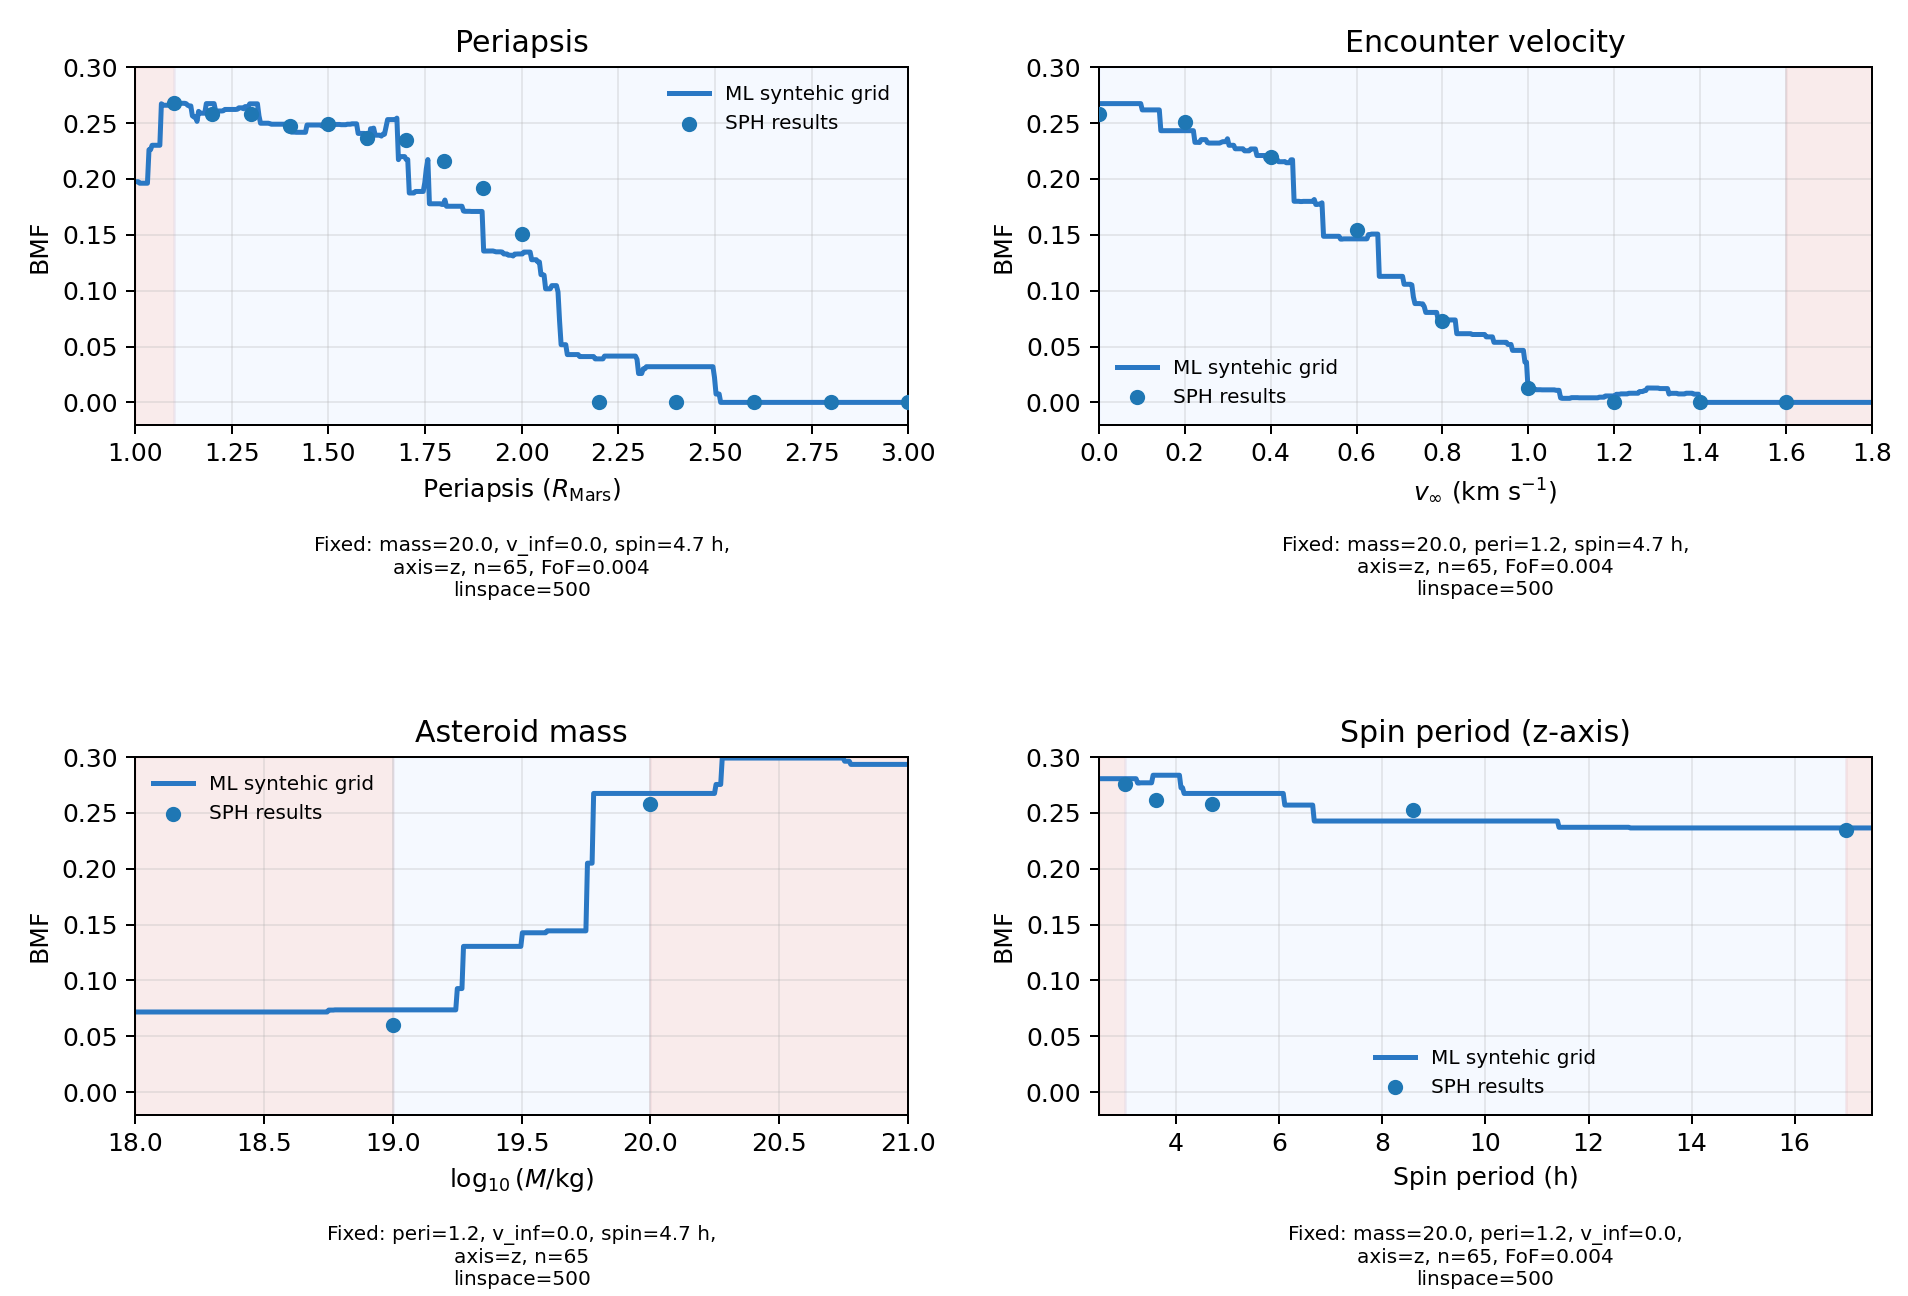
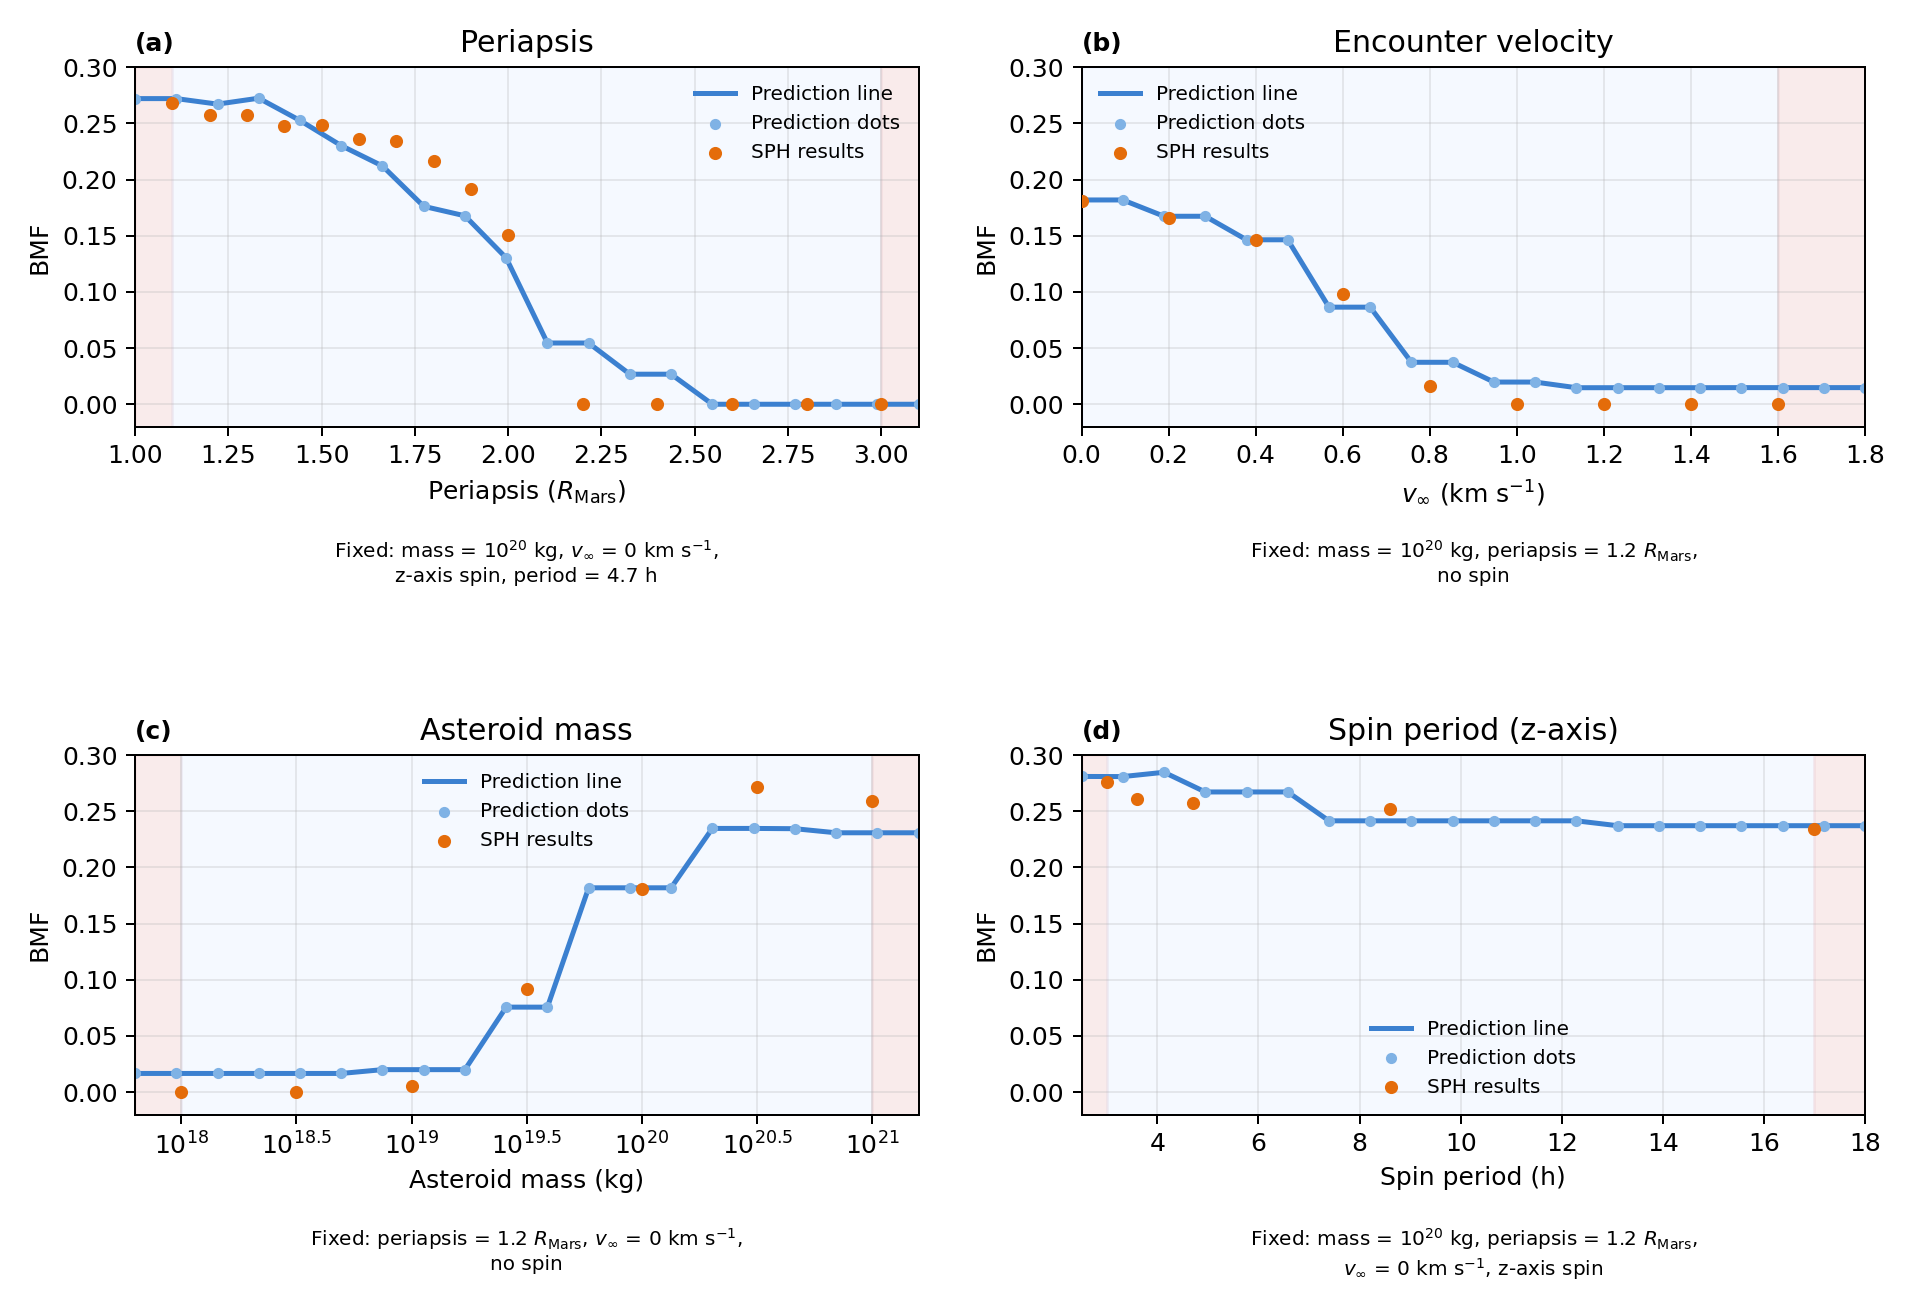
fix: remake variation for figure according to supervisor's revision

diff --git a/eda/scripts/figure3_nospin_variation_build.py b/eda/scripts/figure3_nospin_variation_build.py
@@ -26,7 +26,7 @@ from ml.model_training_scripts.helper_functions_ml import (
 
 
 DATASET_PATH = Path("extraction-outputs/tables/bound_outcomes.csv")
-OUTPUT_PATH = Path("report-table-figure/figures/figure3_used_in_report.png")
+OUTPUT_PATH = Path("report-table-figure/figures/figure3_nospin_variation.png")
 GRID_POINTS = 20
 INTERPOLATION_COLOR = "#dbe8ff"
 EXTRAPOLATION_COLOR = "#f3d3d3"
@@ -43,7 +43,6 @@ FEATURE_COLUMNS = [
     "resolution_value",
     "fof_linking_length",
 ]
-SIMULATION_SETTING_COLUMNS = ["resolution_value", "fof_linking_length"]
 GB_PARAMS = {
     "n_estimators": 500,
     "learning_rate": 0.08,
@@ -97,11 +96,6 @@ def linspace_grid(
     elif parameter == "v_inf_kms":
         grid["velocity_value"] = np.round(grid["v_inf_kms"].astype(float) * 10.0).astype(int)
         grid["velocity_code"] = grid["velocity_value"].map(lambda value: f"v{value:02d}")
-    elif parameter == "spin_period_hr":
-        spin_values = np.round(grid["spin_period_hr"].astype(float) * 10.0).astype(int)
-        axis = str(base_row["spin_axis"])
-        grid["spin_value"] = spin_values
-        grid["spin_code"] = spin_values.map(lambda value: f"s{value:03d}{axis}")
 
     for column in NUMERIC_GRID_COLUMNS:
         if column in grid.columns:
@@ -141,22 +135,9 @@ def collapse_observed_slice(slice_df: pd.DataFrame, parameter: str) -> pd.DataFr
 
 def make_slice_specs(frame: pd.DataFrame) -> list[dict[str, object]]:
     no_spin = (frame["spin_axis"] == "none") & (frame["spin_period_hr"].isna())
-    peri_mask = (
-        (frame["mass_log10_kg"] == 20.0)
-        & (frame["v_inf_kms"] == 0.0)
-        & (frame["spin_axis"] == "z")
-        & (frame["spin_period_hr"] == 4.7)
-    )
-    vel_mask = (
-        (frame["mass_log10_kg"] == 20.0)
-        & (frame["periapsis_Rm"] == 1.2)
-        & no_spin
-    )
-    mass_mask = (
-        (frame["periapsis_Rm"] == 1.2)
-        & (frame["v_inf_kms"] == 0.0)
-        & no_spin
-    )
+    peri_mask = (frame["mass_log10_kg"] == 20.0) & (frame["v_inf_kms"] == 0.0) & no_spin
+    vel_mask = (frame["mass_log10_kg"] == 20.0) & (frame["periapsis_Rm"] == 1.2) & no_spin
+    mass_mask = (frame["periapsis_Rm"] == 1.2) & (frame["v_inf_kms"] == 0.0) & no_spin
     spin_mask = (
         (frame["mass_log10_kg"] == 20.0)
         & (frame["periapsis_Rm"] == 1.2)
@@ -169,8 +150,8 @@ def make_slice_specs(frame: pd.DataFrame) -> list[dict[str, object]]:
             "parameter": "periapsis_Rm",
             "title": "Periapsis",
             "x_label": r"Periapsis ($R_{\mathrm{Mars}}$)",
-            "x_range": (1.0, 3.1),
-            "fixed_text": "Fixed: mass = $10^{20}$ kg, $v_\\infty$ = 0 km s$^{-1}$,\nz-axis spin, period = 4.7 h",
+            "x_range": (1.0, 3.0),
+            "fixed_text": "Fixed: mass = $10^{20}$ kg, $v_\\infty$ = 0 km s$^{-1}$,\nno spin",
             "mask": peri_mask,
             "base_selector": peri_mask & (frame["periapsis_Rm"] == 1.2),
         },
@@ -179,7 +160,6 @@ def make_slice_specs(frame: pd.DataFrame) -> list[dict[str, object]]:
             "title": "Encounter velocity",
             "x_label": r"$v_\infty$ (km s$^{-1}$)",
             "x_range": (0.0, 1.8),
-            "physical_min": 0.0,
             "fixed_text": "Fixed: mass = $10^{20}$ kg, periapsis = 1.2 $R_{\\mathrm{Mars}}$,\nno spin",
             "mask": vel_mask,
             "base_selector": vel_mask & (frame["v_inf_kms"] == 0.0),
@@ -197,7 +177,7 @@ def make_slice_specs(frame: pd.DataFrame) -> list[dict[str, object]]:
             "parameter": "spin_period_hr",
             "title": "Spin period (z-axis)",
             "x_label": "Spin period (h)",
-            "x_range": (2.5, 18.0),
+            "x_range": (2.5, 17.5),
             "fixed_text": "Fixed: mass = $10^{20}$ kg, periapsis = 1.2 $R_{\\mathrm{Mars}}$,\n$v_\\infty$ = 0 km s$^{-1}$, z-axis spin",
             "mask": spin_mask,
             "base_selector": spin_mask & (frame["spin_period_hr"] == 4.7),
@@ -218,11 +198,8 @@ def render_panel(
     grid = build_prediction_grid(base_rows, spec["parameter"], spec["x_range"][0], spec["x_range"][1])
     grid["predicted_bmf"] = np.clip(model.predict(grid[feature_columns]), 0.0, 1.0)
     collapsed = collapse_observed_slice(slice_df, spec["parameter"])
-    synthetic_curve = (
-        grid.groupby("grid_x", as_index=False)["predicted_bmf"]
-        .mean()
-        .sort_values("grid_x")
-    )
+    synthetic_curve = grid.groupby("grid_x", as_index=False)["predicted_bmf"].mean().sort_values("grid_x")
+
     observed = np.sort(collapsed[spec["parameter"]].astype(float).unique())
     observed_min = float(observed.min())
     observed_max = float(observed.max())
@@ -260,8 +237,6 @@ def render_panel(
     ax.set_xlabel(spec["x_label"])
     ax.set_ylabel("BMF")
     ax.set_xlim(*spec["x_range"])
-    if spec["parameter"] == "v_inf_kms":
-        ax.set_xlim(left=max(0.0, spec["x_range"][0]))
     if spec["parameter"] == "mass_log10_kg":
         ticks = np.arange(18.0, 21.1, 0.5)
         ax.set_xticks(ticks)
@@ -272,7 +247,7 @@ def render_panel(
     ax.text(0.0, 1.03, panel_label, transform=ax.transAxes, ha="left", va="bottom", fontsize=10, fontweight="bold")
     ax.text(
         0.5,
-        -0.31,
+        -0.28,
         spec["fixed_text"],
         transform=ax.transAxes,
         ha="center",
@@ -283,13 +258,14 @@ def render_panel(
 
 def main() -> None:
     OUTPUT_PATH.parent.mkdir(parents=True, exist_ok=True)
-    raw = load_canonical_dataset(DATASET_PATH)
-    frame = raw.loc[raw[PRIMARY_TARGET].notna()].copy()
+    frame = load_canonical_dataset(DATASET_PATH)
+    frame = frame.loc[frame[PRIMARY_TARGET].notna()].copy()
     feature_columns, model = train_model(frame)
     specs = make_slice_specs(frame)
 
     fig, axes = plt.subplots(2, 2, figsize=(10.6, 7.2))
-    for ax, spec, panel_label in zip(axes.flat, specs, PANEL_LABELS):
+    flat_axes = axes.flat
+    for ax, spec, panel_label in zip(flat_axes, specs, PANEL_LABELS):
         render_panel(ax, frame, feature_columns, model, spec, panel_label)
 
     fig.tight_layout(h_pad=3.0, w_pad=2.2)
@@ -301,4 +277,3 @@ def main() -> None:
 
 if __name__ == "__main__":
     main()
-PANEL_LABELS = ["(a)", "(b)", "(c)", "(d)"]

diff --git a/report-table-figure/figures/figureA1_build.py b/report-table-figure/figures/figureA1_build.py
@@ -26,7 +26,7 @@ from ml.model_training_scripts.helper_functions_ml import (
 
 
 DATASET_PATH = Path("extraction-outputs/tables/bound_outcomes.csv")
-OUTPUT_PATH = Path("report-table-figure/figures/figure3_used_in_report.png")
+OUTPUT_PATH = Path("report-table-figure/figures/figureA1_used_in_report.png")
 GRID_POINTS = 20
 INTERPOLATION_COLOR = "#dbe8ff"
 EXTRAPOLATION_COLOR = "#f3d3d3"
@@ -43,7 +43,6 @@ FEATURE_COLUMNS = [
     "resolution_value",
     "fof_linking_length",
 ]
-SIMULATION_SETTING_COLUMNS = ["resolution_value", "fof_linking_length"]
 GB_PARAMS = {
     "n_estimators": 500,
     "learning_rate": 0.08,
@@ -106,7 +105,6 @@ def linspace_grid(
     for column in NUMERIC_GRID_COLUMNS:
         if column in grid.columns:
             grid[column] = pd.to_numeric(grid[column], errors="coerce")
-
     grid[parameter] = x_values
     return grid
 
@@ -131,10 +129,7 @@ def build_prediction_grid(
 def collapse_observed_slice(slice_df: pd.DataFrame, parameter: str) -> pd.DataFrame:
     return (
         slice_df.groupby(parameter, as_index=False)
-        .agg(
-            observed_bmf=(PRIMARY_TARGET, "mean"),
-            run_count=(PRIMARY_TARGET, "size"),
-        )
+        .agg(observed_bmf=(PRIMARY_TARGET, "mean"), run_count=(PRIMARY_TARGET, "size"))
         .sort_values(parameter)
     )
 
@@ -169,7 +164,7 @@ def make_slice_specs(frame: pd.DataFrame) -> list[dict[str, object]]:
             "parameter": "periapsis_Rm",
             "title": "Periapsis",
             "x_label": r"Periapsis ($R_{\mathrm{Mars}}$)",
-            "x_range": (1.0, 3.1),
+            "x_range": (0.5, 6.0),
             "fixed_text": "Fixed: mass = $10^{20}$ kg, $v_\\infty$ = 0 km s$^{-1}$,\nz-axis spin, period = 4.7 h",
             "mask": peri_mask,
             "base_selector": peri_mask & (frame["periapsis_Rm"] == 1.2),
@@ -178,8 +173,7 @@ def make_slice_specs(frame: pd.DataFrame) -> list[dict[str, object]]:
             "parameter": "v_inf_kms",
             "title": "Encounter velocity",
             "x_label": r"$v_\infty$ (km s$^{-1}$)",
-            "x_range": (0.0, 1.8),
-            "physical_min": 0.0,
+            "x_range": (0.0, 5.0),
             "fixed_text": "Fixed: mass = $10^{20}$ kg, periapsis = 1.2 $R_{\\mathrm{Mars}}$,\nno spin",
             "mask": vel_mask,
             "base_selector": vel_mask & (frame["v_inf_kms"] == 0.0),
@@ -188,7 +182,7 @@ def make_slice_specs(frame: pd.DataFrame) -> list[dict[str, object]]:
             "parameter": "mass_log10_kg",
             "title": "Asteroid mass",
             "x_label": "Asteroid mass (kg)",
-            "x_range": (17.8, 21.2),
+            "x_range": (16.0, 24.0),
             "fixed_text": "Fixed: periapsis = 1.2 $R_{\\mathrm{Mars}}$, $v_\\infty$ = 0 km s$^{-1}$,\nno spin",
             "mask": mass_mask,
             "base_selector": mass_mask & (frame["mass_log10_kg"] == 20.0),
@@ -197,7 +191,7 @@ def make_slice_specs(frame: pd.DataFrame) -> list[dict[str, object]]:
             "parameter": "spin_period_hr",
             "title": "Spin period (z-axis)",
             "x_label": "Spin period (h)",
-            "x_range": (2.5, 18.0),
+            "x_range": (0.5, 40.0),
             "fixed_text": "Fixed: mass = $10^{20}$ kg, periapsis = 1.2 $R_{\\mathrm{Mars}}$,\n$v_\\infty$ = 0 km s$^{-1}$, z-axis spin",
             "mask": spin_mask,
             "base_selector": spin_mask & (frame["spin_period_hr"] == 4.7),
@@ -218,11 +212,8 @@ def render_panel(
     grid = build_prediction_grid(base_rows, spec["parameter"], spec["x_range"][0], spec["x_range"][1])
     grid["predicted_bmf"] = np.clip(model.predict(grid[feature_columns]), 0.0, 1.0)
     collapsed = collapse_observed_slice(slice_df, spec["parameter"])
-    synthetic_curve = (
-        grid.groupby("grid_x", as_index=False)["predicted_bmf"]
-        .mean()
-        .sort_values("grid_x")
-    )
+    synthetic_curve = grid.groupby("grid_x", as_index=False)["predicted_bmf"].mean().sort_values("grid_x")
+
     observed = np.sort(collapsed[spec["parameter"]].astype(float).unique())
     observed_min = float(observed.min())
     observed_max = float(observed.max())
@@ -260,10 +251,8 @@ def render_panel(
     ax.set_xlabel(spec["x_label"])
     ax.set_ylabel("BMF")
     ax.set_xlim(*spec["x_range"])
-    if spec["parameter"] == "v_inf_kms":
-        ax.set_xlim(left=max(0.0, spec["x_range"][0]))
     if spec["parameter"] == "mass_log10_kg":
-        ticks = np.arange(18.0, 21.1, 0.5)
+        ticks = np.arange(16.0, 24.1, 2.0)
         ax.set_xticks(ticks)
         ax.set_xticklabels([fr"$10^{{{tick:g}}}$" for tick in ticks])
     ax.set_ylim(-0.02, 0.30)
@@ -301,4 +290,3 @@ def main() -> None:
 
 if __name__ == "__main__":
     main()
-PANEL_LABELS = ["(a)", "(b)", "(c)", "(d)"]
